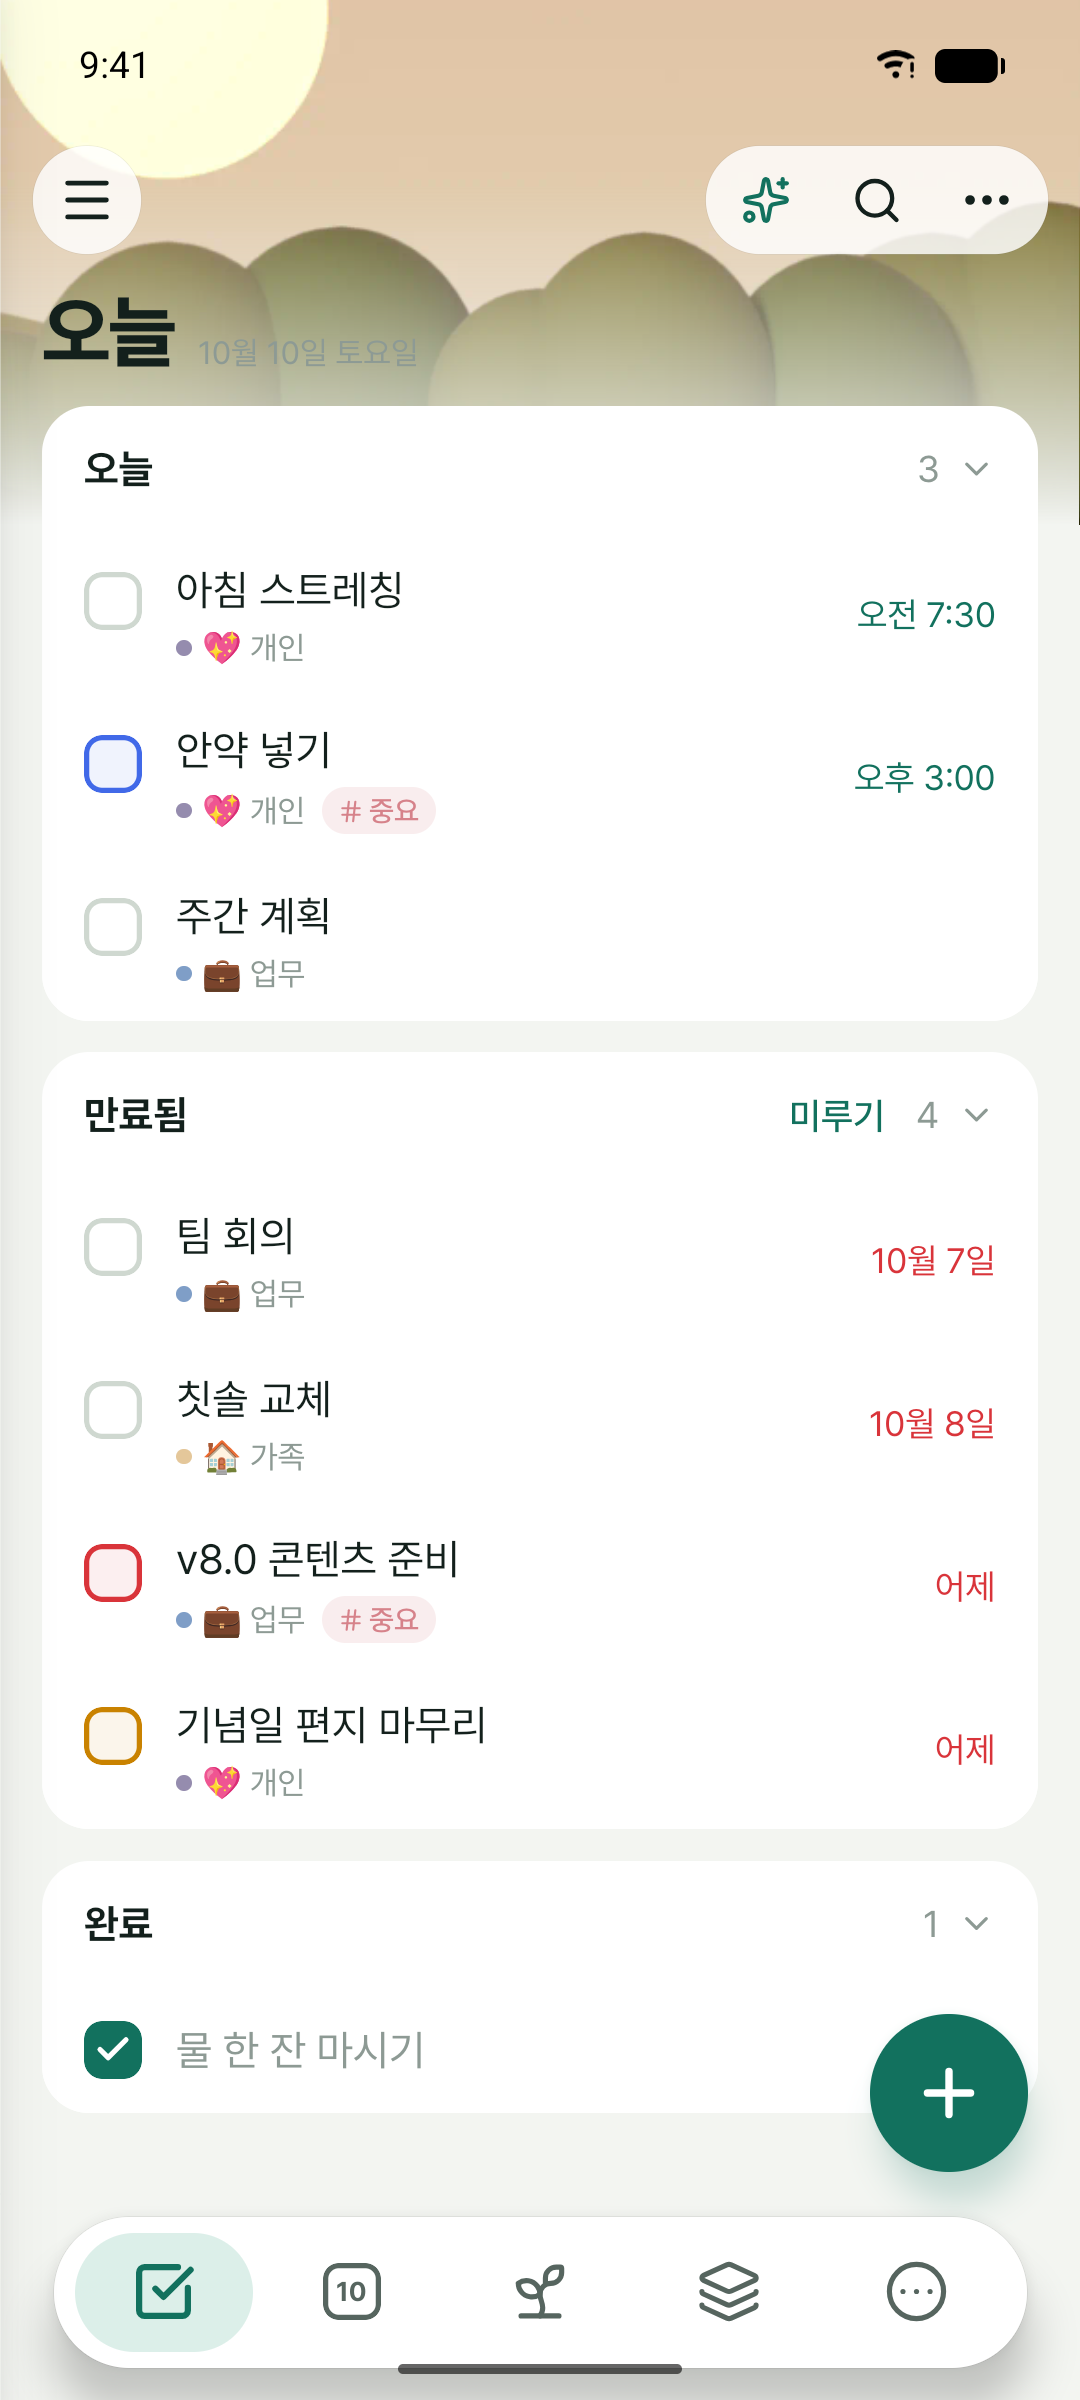
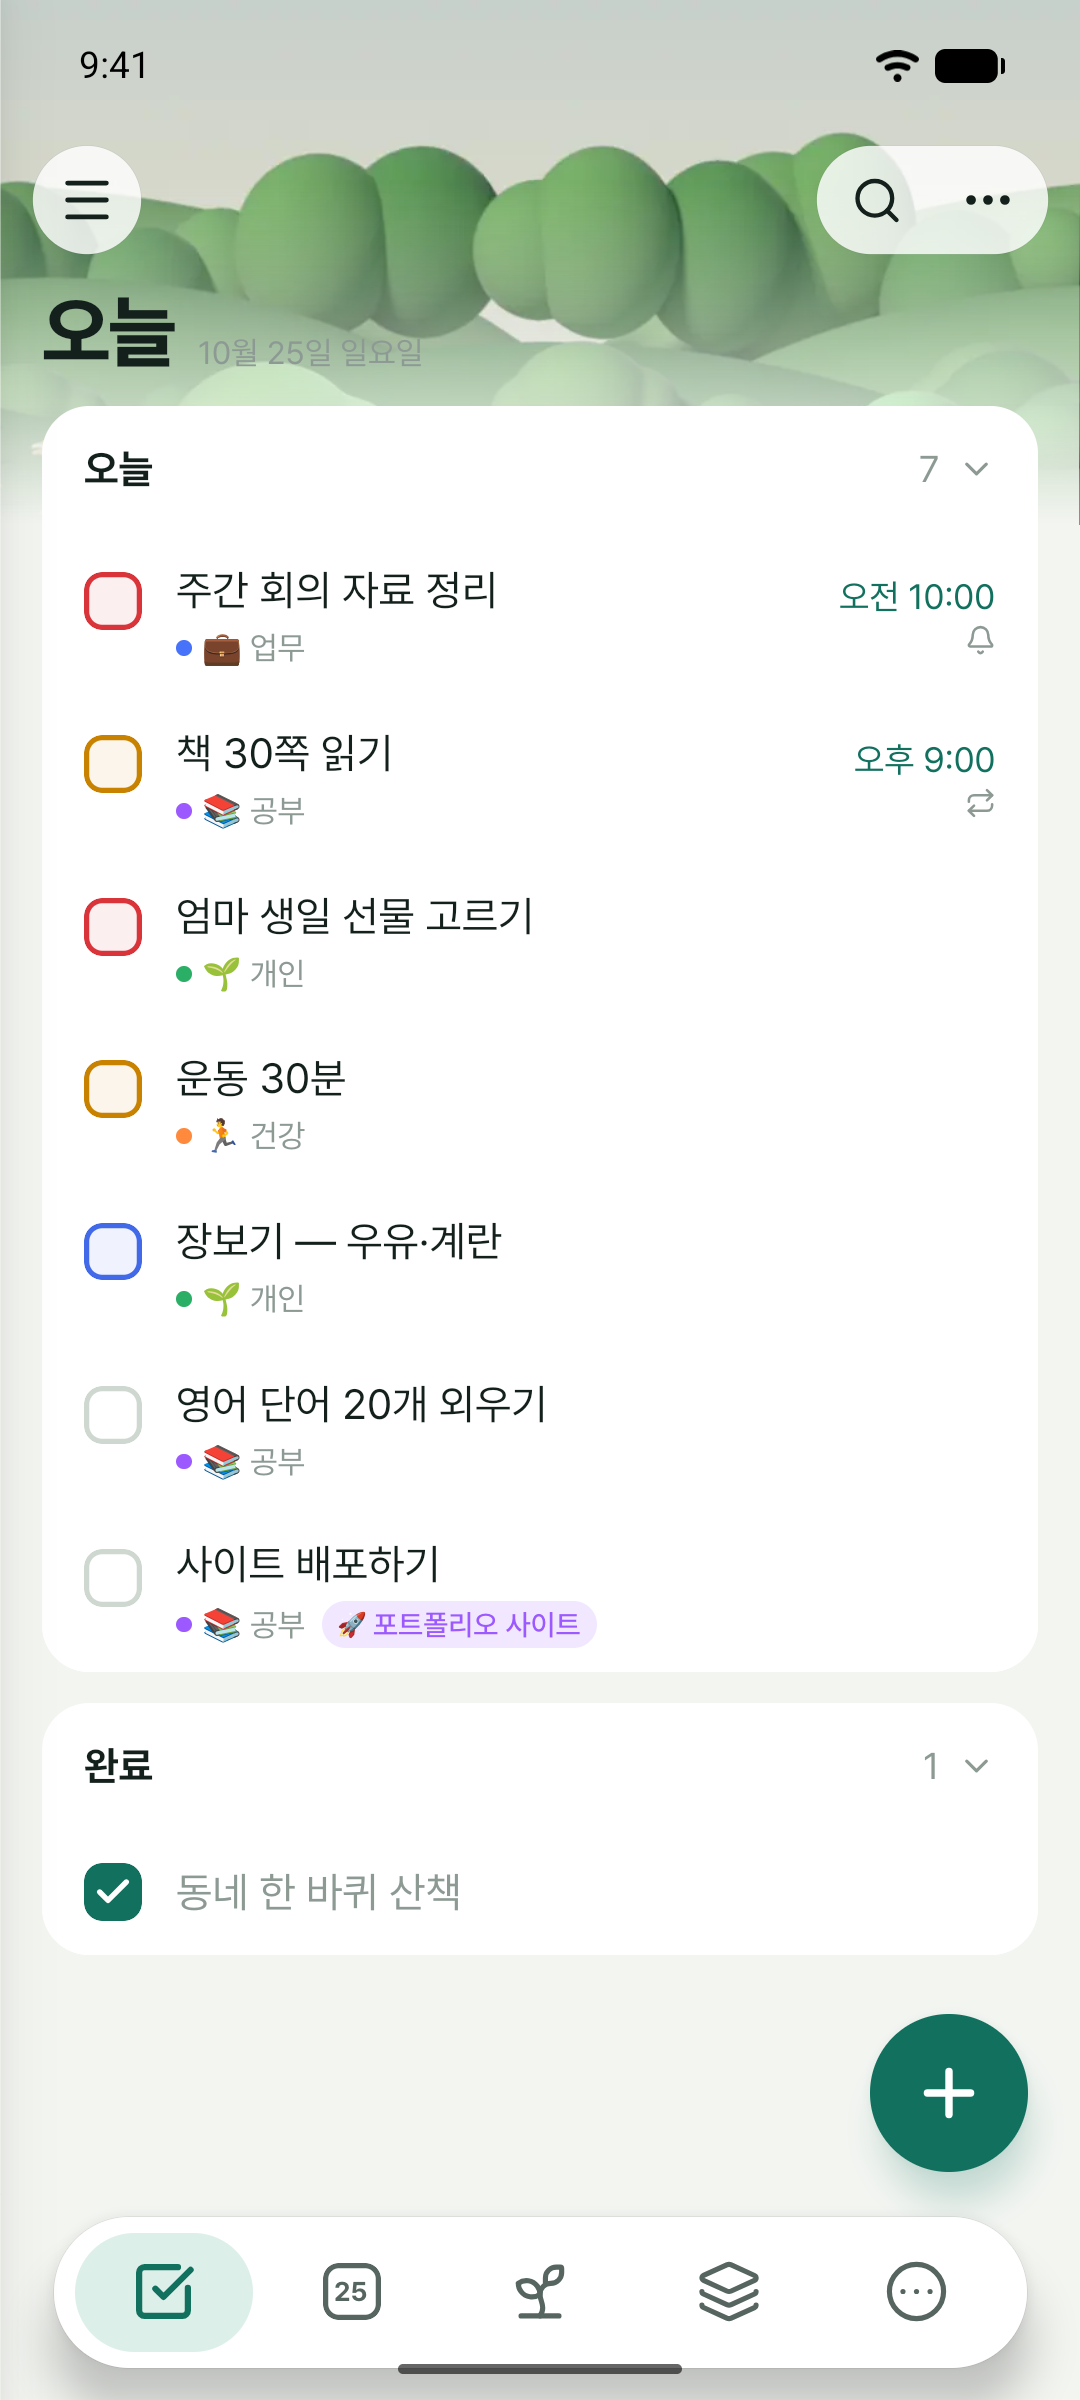
Play 스토어 이미지 새로: 휴대전화 스크린샷 8장(오늘·성장·캘린더 월·빠른 추가·수집함·AI 비서·일기 대화·일기 앨범, 1080×2400, 데모 계정·데모 상태 표시줄, 실제 앱 화면·실제 AI 답) + 다크 예비 1장, 옛 6장 지움. 그래픽 1024×500은 지금 브랜드와 맞아 그대로. 출시 노트(play-listing §7) 1.0.1 내용으로

diff --git a/docs/release/store/play-listing.md b/docs/release/store/play-listing.md
@@ -72,7 +72,7 @@
 |---|---|---|
 | 앱 아이콘 | `docs/release/store/play-assets/icon-512.png` (45 확정 로고 씨앗 친구 × 깊은 숲, 2026-10-09 교체 — `node scripts/brand/build-icons.mjs seed --apply`로 다시 만든다) | 512×512 PNG, 32비트(RGBA) |
 | 그래픽 이미지(Feature graphic) | `docs/release/store/play-assets/feature-graphic-1024x500.png` (깊은 숲 판 + 씨앗 친구 + 직접 그린 글자 로고 "꿈틀" + 한 줄 소개, 2026-10-09 교체 — `node scripts/brand/build-marketing.mjs`). 글자 없는 판: `brand/out/seed/store/play-feature-graphic-1024x500.png`(git 제외 폴더) | 1024×500, 투명 없음 |
-| 휴대전화 스크린샷 | `docs/release/store/screenshots/android/` 6장(2026-10-10 새 디자인), 번호 순서대로: 01 오늘 · 02 캘린더(월) · 03 성장(3D 정원·캐릭터) · 04 AI 비서 · 05 할 일 상세 · 06 캘린더 다크. 릴리스 빌드(빌드 3) + 스크린숏용 시험 계정(예시 데이터, 촬영 뒤 삭제), 에뮬레이터 Pixel 6a, 상태 표시줄 데모 모드 9:41 | 1080×2400(9:20), 2~8장 |
+| 휴대전화 스크린샷 | `docs/release/store/screenshots/android/` **8장(2026-10-25 다시 찍음)**, 번호 순서대로: 01 오늘 · 02 성장(캐릭터·레벨·이번 주 목표) · 03 캘린더(월) · 04 빠른 추가(날짜 칩 인식) · 05 수집함 · 06 AI 비서 · 07 일기 대화 · 08 일기 앨범(장면 카드). `09-today-dark.png`는 예비(올리지 않음). 릴리스 APK + 데모 계정(예시 데이터), 에뮬레이터 Pixel 6a, 상태 표시줄 데모 모드 9:41 | 1080×2400(9:20), 2~8장 |
 | 태블릿 스크린샷 | 올리지 않음(선택 항목) | |
 | 동영상(YouTube) | 없음 | |
 
@@ -178,8 +178,8 @@ Contact: kysk2295@naver.com
 - 13세 미만 체크 안 함 → 가족 정책 대상 아님. "어린이의 관심을 끌 수 있나요?" → **아니요**(일반 생산성 앱. 캐릭터는 성장 기록 표현).
 
 ## 7. 출시 노트(새로운 기능, 500)
-- ko-KR: `꿈틀의 첫 버전이에요. 할 일·캘린더·성장 캐릭터·홈 화면 위젯·수집함·AI 비서·일기를 만나 보세요. 의견은 kysk2295@naver.com으로 보내 주세요.`
-- en-US: `First release of Kkumteul: tasks, calendar, a growing character, home screen widgets, inbox, AI assistant and journal. Send feedback to kysk2295@naver.com.`
+- ko-KR: `꿈틀의 첫 버전이에요. 할 일·캘린더·성장 캐릭터·홈 화면 위젯·수집함·AI 비서·일기를 만나 보세요. 일기는 캐릭터와 대화하듯 쓰면 AI가 일기로 옮겨 줘요. 그날 장면 카드에 사진을 배경으로 넣을 수 있고, 캐릭터 표정이 기분 따라 바뀌며, 앨범으로 한 달을 모아 봐요. 동기화를 더 안정적으로 다듬고 서랍·빠른 추가 문제를 고쳤어요. 의견은 kysk2295@naver.com으로 보내 주세요.`
+- en-US: `First release of Kkumteul: tasks, calendar, a growing character, home screen widgets, inbox, AI assistant and journal. Chat with your character and AI turns it into a journal entry. Add a photo as the background of each day's scene card, watch your character's face follow your mood, and browse the month in an album. Sync is more reliable, and the drawer and quick add are fixed. Send feedback to kysk2295@naver.com.`
 
 ## 8. 출시 트랙 (조직 계정)
 1. **내부 테스트**(최대 100명, 심사 없이 몇 분 안에 배포): AAB 올리기 → 본인 Google 계정을 테스터로 → Play 스토어에서 받아 실제 기기로 로그인·구글 로그인·알림 확인. 여기서 **앱 서명 키 SHA-1**을 확인해 OAuth에 등록(체크리스트 §5-1).

diff --git a/docs/release/RELEASE-CHECKLIST.md b/docs/release/RELEASE-CHECKLIST.md
@@ -132,7 +132,7 @@
 | 데이터 보안 양식 다시 제출 | [ ] | 캘린더 권한(READ/WRITE_CALENDAR)이 추가된 빌드와 함께 Play Console 데이터 보안을 다시 확인·제출(답은 그대로 — data-safety.md 전제) |
 | 계정 삭제 웹 URL | [완료] | https://web-production-cd889.up.railway.app/account-deletion |
 | 콘텐츠 등급(IARC)·타겟층 | [완료] 답안 | play-listing.md §5·§6 (16–17, 18+ 권장) |
-| 스토어 등록정보·그래픽·스크린샷 | [완료] | play-listing.md, `store/play-assets/`(아이콘 512 RGBA, 그래픽 1024×500 "꿈틀"), `store/screenshots/android/` 6장(1080×2400) |
+| 스토어 등록정보·그래픽·스크린샷 | [완료] | play-listing.md, `store/play-assets/`(아이콘 512 RGBA, 그래픽 1024×500 "꿈틀"), `store/screenshots/android/` 8장(1080×2400, 2026-10-25 새로 — 일기 대화·앨범·수집함 포함, 09 다크는 예비) |
 | Android 네이티브 폴더 | — | gitignore. 로컬 Gradle로 빌드(아래 §5-1 1단계) |
 | 위젯(Android) | [완료] 빌드 | 오늘·월·캐릭터 위젯 3종이 출시 빌드에 등록됨(홈 화면 배치는 실기기에서 확인) |
 
@@ -151,7 +151,7 @@
    6. 확인: 내부 테스트로 받은 앱에서 "Google로 계속하기" → 계정 선택 → 로그인됨. `DEVELOPER_ERROR`(코드 10)면 SHA-1이 아직 반영 안 된 것.
 5. **내부 테스트 기기에서 확인**: 가입·로그인, 구글 로그인, 설정 › 소리와 알림 켜기 → 푸시 테스트, 할 일 알림 울림, 홈 화면 위젯 3종 추가, 계정 삭제.
 6. **앱 콘텐츠(정책) 채우기**: 개인정보처리방침 URL, 앱 액세스(심사용 데모 계정 — 출시 직전 새로 만들고 콘솔에만 적음), 광고 없음, 콘텐츠 등급, 타겟층, 데이터 보안, 계정 삭제 URL, 정부·금융·건강 = 아니요 — 답은 play-listing.md §4~6, data-safety.md.
-7. **기본 스토어 등록정보**: 한국어 + 영어 번역 문구, 아이콘 `store/play-assets/icon-512.png`, 그래픽 `store/play-assets/feature-graphic-1024x500.png`, 휴대전화 스크린샷 `store/screenshots/android/01~06`. 카테고리 생산성, 연락처 `kysk2295@naver.com`.
+7. **기본 스토어 등록정보**: 한국어 + 영어 번역 문구, 아이콘 `store/play-assets/icon-512.png`, 그래픽 `store/play-assets/feature-graphic-1024x500.png`, 휴대전화 스크린샷 `store/screenshots/android/01~08`. 카테고리 생산성, 연락처 `kysk2295@naver.com`.
 8. **프로덕션**: 내부 테스트 버전을 프로덕션으로 승격 → 국가(대한민국) → 검토를 위해 전송. 심사 기간 Mac mini 서버 상시 가동(AI·동기화).
 
 ## 6. 서버 (Mac mini 셀프호스트)

diff --git a/docs/release/store/screenshots.md b/docs/release/store/screenshots.md
@@ -1,5 +1,6 @@
 # 스토어 스크린숏 촬영 목록
 
+> **Play 완성본(2026-10-25): [screenshots/android/](screenshots/android/)** — 1080×2400 원본 8장(캡션 띠 없음), Pixel 6a 에뮬레이터 · Release APK · 데모 계정 · 상태 표시줄 데모 모드 9:41. 01 오늘 · 02 성장 · 03 캘린더 월 · 04 빠른 추가(`내일 오후 3시 치과` → 날짜 칩 `내일, 15:00`) · 05 수집함 · 06 AI 비서(실제 답) · 07 일기 대화(실제 AI 답 + AI가 옮긴 일기 카드) · 08 일기 앨범(장면 카드, 오늘 칸 사진 배경). `09-today-dark.png`는 다크 테마 예비본 — Play는 8장까지라 올리지 않는다(바꿔 넣을 때만). 한글 입력은 ADBKeyBoard(`ADB_INPUT_B64` 방송)로 쳤다.
 > **iOS 완성본(2026-10-05): [screenshots/ios/](screenshots/ios/)** — 6.9"(1320×2868)·6.5"(1284×2778) 각 6장, 캡션은 [screenshots/ios/captions.md](screenshots/ios/captions.md). 데모 계정 = [review-notes.md](review-notes.md).
 
 > 원칙: **실제 앱 화면만** 찍는다(합성·가짜 기능 금지). 다른 회사 앱 이름·로고가 화면에 나오면 안 된다(예: 설정 › 가져오기 화면은 찍지 않음). 캡션 위·아래 띠와 배경색은 넣어도 되지만 앱 화면 자체는 손대지 않는다.
